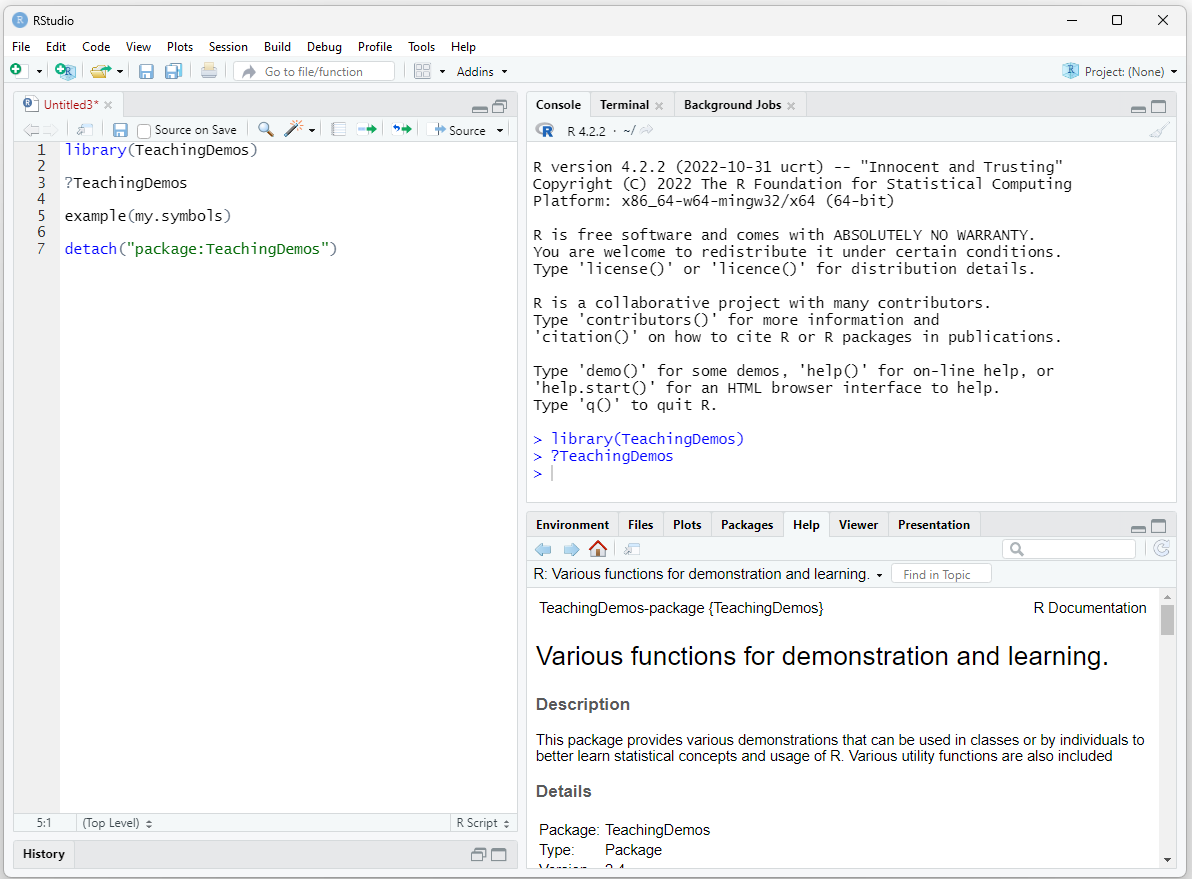
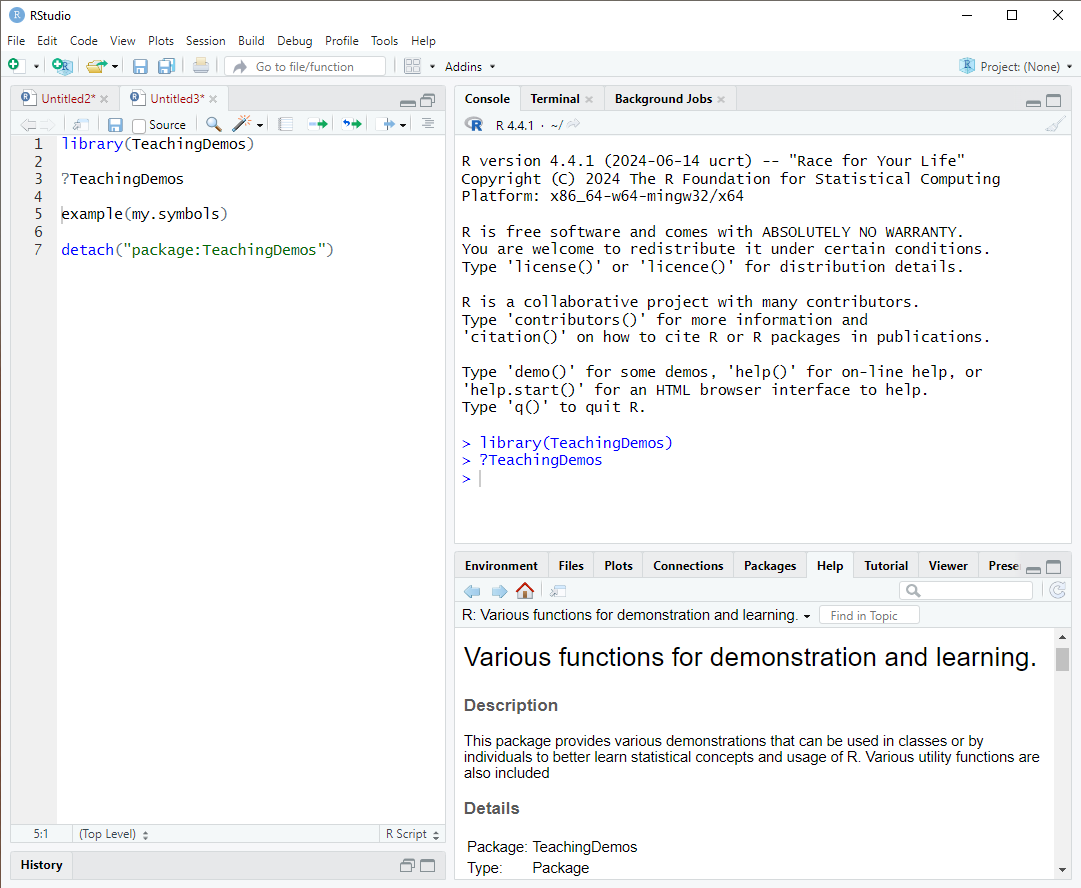
actualización de "01-instalacion.md" con imágenes de la versión de R más reciente

Changed region(s): [[0.0, 0.0, 1.0, 1.0], [0.8853, 0.0, 1.0, 0.0307]]

diff --git a/Intro-a-R/01-Instalacion.md b/Intro-a-R/01-Instalacion.md
@@ -21,7 +21,7 @@
 
 La versión más reciente de R puede obtenerse del sitio web oficial: [The R Project for Statistical Computing](http://www.r-project.org/), el cual contiene las ligas hacia diferentes servidores "espejo" distribuidos en todo el mundo. En estos servidores se puede descargar el código fuente de R o una versión precompilada para la plataforma de nuestro interés (Linux, macOS, Windows). En esta guía comentaremos la instalación y el uso de R en las versiones más recientes de  Windows.
 
-Una vez descargado el archivo de instalación (`R-4.2.2-win.exe`), basta ejecutarlo haciendo doble click en él. Durante la instalación se irán desplegando una serie de ventanas, en la mayoría de las cuales seleccionaremos las opciones por defecto: 
+Una vez descargado el archivo de instalación (`R-4.4.1-win.exe`), basta ejecutarlo haciendo doble click en él. Durante la instalación se irán desplegando una serie de ventanas, en la mayoría de las cuales seleccionaremos las opciones por defecto: 
 
 * **Select setup language**: Se recomienda seleccionar "**English**". La razón de esto es que aunque el menú de R y algunos mensajes están traducidos en varios idiomas (entre ellos el español) el sistema de ayuda y muchos recursos en Internet solo están disponibles en inglés, por lo que una búsqueda en este idioma producirá más resultados que en español o cualquier otro idioma.
 
@@ -29,7 +29,7 @@ Una vez descargado el archivo de instalación (`R-4.2.2-win.exe`), basta ejecuta
 
 * **Select Destination Location**: Se recomienda instalar en el directorio por defecto.
 
-![](imagenes/cdf3c335d5b3e0235da06be727746d85.png "XX")
+![](imagenes/setup_R.png "XX")
 
 * **Select Components**: "**Next**" para continuar.
 
@@ -42,7 +42,7 @@ Una vez descargado el archivo de instalación (`R-4.2.2-win.exe`), basta ejecuta
 
 * **Select Additional Tasks**: "**Next**" para continuar
 
-* **Completing the R for  Windows 4.2.2 Setup Wizard**: "**Finish**" para terminar
+* **Completing the R for  Windows 4.4.1 Setup Wizard**: "**Finish**" para terminar
 
 # Instalar Rstudio 
 Una manera de facilitar la creación y manipulación de scripts en R es por medio de un editor que resalte la sintaxis con diferentes colores, y al mismo tiempo que pueda interactuar con R enviando código a la consola para su ejecución. Existen diferentes opciones, sin embargo dada la facilidad de instalación, de uso y sus características, se recomienda el uso de [RStudio](https://posit.co/download/rstudio-desktop/). 
@@ -68,7 +68,7 @@ La instalación es bastante simple, se puede hacer a partir de RStudio, desde la
 ## Desde RStudio
 Esta es la opción más simple. Basta ir a la pestaña **Packages** y pulsar el boton **Install**. En la ventana emergente solamente se requiere escribir el nombre del paquete deseado (o nombres, separados por una coma) y pulsar el botón **Install**. Por defecto, RStudio buscará el o los paquetes en el repositorio de R (Comprehensive R Archive Network, [CRAN](https://cran.r-project.org/mirrors.html)). 
 
-![](imagenes/InstallPackges.png)
+![](imagenes/InstallPackages.png)
 
 ## Desde la consola
 En ocasiones el procedimiento anterior falla, típicamente porque se trata de instalar un paquete que esta cargado en la memoria de R. En esos casos es importante saber como utilizar la consola sin RStudio. Para ello se debe localizar el programa "Rgui.exe", que tiene su propio menú. Desde dicho menú seleccionamos la opción: **Packages/Install package(s)...** Después será necesario elegir un servidor o "espejo" y a continuación el paquete de nuestro interés en la lista desplegada. 
